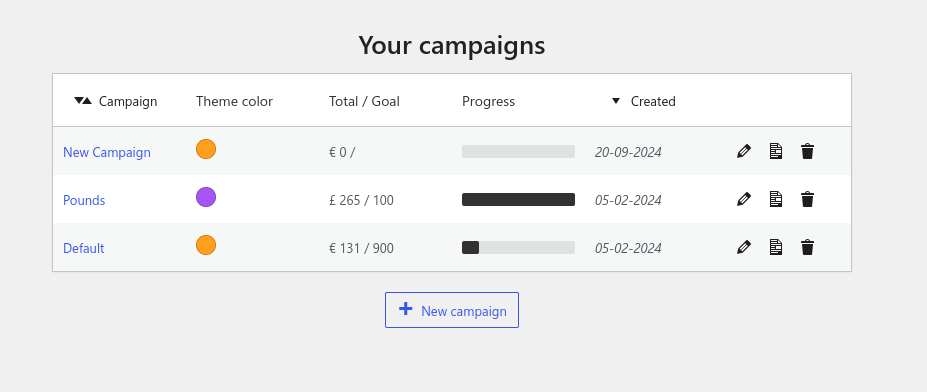
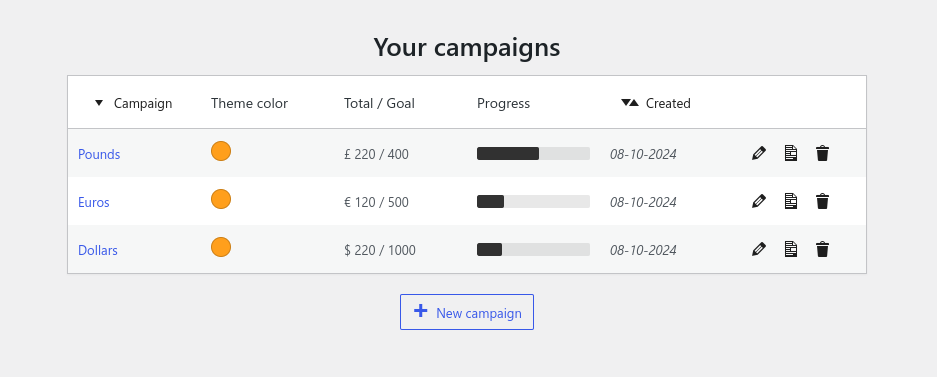
feat: add more infor to changes in 4.0.0

diff --git a/docs/changes-in-4.0.0.md b/docs/changes-in-4.0.0.md
@@ -1,14 +1,37 @@
 # Changes in v4.0.0
 
-Version 4.0.0 is a major upgrade to Kudos Donations. The plugin has been re-written from the ground and contains a number of notable changes and improvements compared to the 3.x versions.
+## Introduction
+
+Version 4.0.0 is a major upgrade to Kudos Donations. The plugin has been re-written from the ground up and contains a number of notable changes and improvements compared to the 3.x versions.
 
 Among the many changes available, the most notable ones are that most settings are now set at the campaign level (as opposed to being global) and the the front end of the plugin is now rendered in a separate frame using React.
 
 :::warning
 
-If you have made customizations to Kudos Donations using CSS, these will not work anymore. Please read [here](#react) for more information.
+If you have made customizations to Kudos Donations using CSS, these will not work anymore. Please read [here](#react-front-end) for more information.
 
 :::
+
+:::info
+
+**Developers**: All entities (Transactions, Campaigns, Donors etc.) are now **Custom Post Types** instead of custom tables/options. This means they will integrate better with third-party plugins (e.g Export or Backup plugins).
+
+:::
+
+## Overview
+
+Here is a quick overview of the changes:
+
+* New campaigns admin page with ability to create / edit / duplicate and delete campaigns
+* Can now configure most settings per-campaign rather than globally
+* Complete rewrite of front-end rendering to react
+* Reduced conflict with other themes and plugins by using the Shadow DOM
+* Support for multiple currencies
+* Improved settings pages look and feel
+* Easily generate shortcodes per campaign with a helpful pop-up
+* New minimum donation setting
+* Allow for partial donation amounts (e.g €1.5)
+* Email "from name" header can now be configured and defaults to website name
 
 ## Campaigns
 
@@ -16,20 +39,42 @@ If you have made customizations to Kudos Donations using CSS, these will not wor
 
 In version 3.x the campaigns you created were found under the **Donations > Settings** menu under a campaigns tab. There is now a separate **Donations > Campaigns** menu which gives you an overview of your campaigns and allows you create, delete, duplicate and edit your campaigns.
 
-Along with the customization available in the 3.x versions, you can now configure most of the other settings on a per-campaign basis (theme colour, return url, return message etc.).
+Along with the customization available in the 3.x versions, you can now configure most of the other settings on a per-campaign basis (theme colour, return url, return message etc.) giving you more control over each campaign.
 
 Once you have configured your email and vendor settings, the **Campaigns** page is where you will spend most time configuring Kudos Donations.
 
-## React
+## React Front-End
 
-In order to minimize conflicts with other themes plugins, the Kudos Donations button and form are now rendered in its own frame. This means that the CSS and JavaScript for other themes or plugins will no longer be able to conflict with Kudos Donations and cause it look or work incorrectly.
+In order to minimize conflicts with other themes plugins, the Kudos Donations button and form are now rendered using React in its own frame (Shadow DOM). This means that the CSS and JavaScript for other themes or plugins will no longer be able to easily conflict with Kudos Donations and cause it look or work unexpectedly.
 
-A side effect of this is that if you have applied any CSS customizations to the way Kudos Donations looks and feels these will no longer work. In order to customize Kudos Donations you will now need to write your custom CSS in the **Custom CSS** tab under the campaign you would like to use it in.
+A side effect of this new method is that if you have applied any CSS customizations to the way Kudos Donations looks and feels these will no longer work. In order to customize Kudos Donations you will now need to write your custom CSS in the **Custom CSS** tab under the campaign you would like to use it in.
 
-![Campaigns](../static/img/customcss.png)
+![Custom CSS](../static/img/customcss.png)
+
+An advantage to this is you can now easily customize the way Kudos Donations looks on a per-campaign basis. Since there is less chance of conflicts with other plugins and themes the rules can be simpler.
 
 ## PDF Invoices
 
+![Sample Invoice](../static/img/invoice-border.png)
+
 Kudos Donations can now generates PDF invoices for successful donations. You can add your address and VAT number under **Donations > Settings > Invoice** which will be automatically added to each invoice.
 
-If you have **Send email receipts** enabled (**Donations > Settings > Email**) a copy of this invoice will be attached to the email sent to the donor.
+If you have **Send email receipts** enabled (**Donations > Settings > Email**) a copy of this invoice will be automatically attached to the email sent to the donor.
+
+## Multiple Currencies
+
+In version 3.x all transactions were in euros (€), however it is now possible to select the desired currency when creating a campaign. The list of currencies available is currently dicated by those [supported by Mollie](https://docs.mollie.com/docs/multicurrency).
+
+For technical reasons, once you have recieved a donation for the campaign it will be no longer possible to change the currency.
+
+## Shortcode Pop-up
+
+![Shortcode Pop-up](../static/img/shortcode-popup.png)
+
+If you still need to use a shortcode (instead of a block), another handy change is the generate shortcode button. This can be accessed from within the edit screen of a campaign and with a few simple options, this will allow you to easily configure and generate your shortcode instead of manually typing it out.
+
+## Partial Donations
+
+![Campaign Payment](../static/img/campaign-payment.png)
+
+Previously you were only allowed to make donations in major units (1, 5, 10, 20 etc.), now it is possible to allow donations in minor units also (1.5, 5,2, 10.6). This applies to both fixed and open value types.
